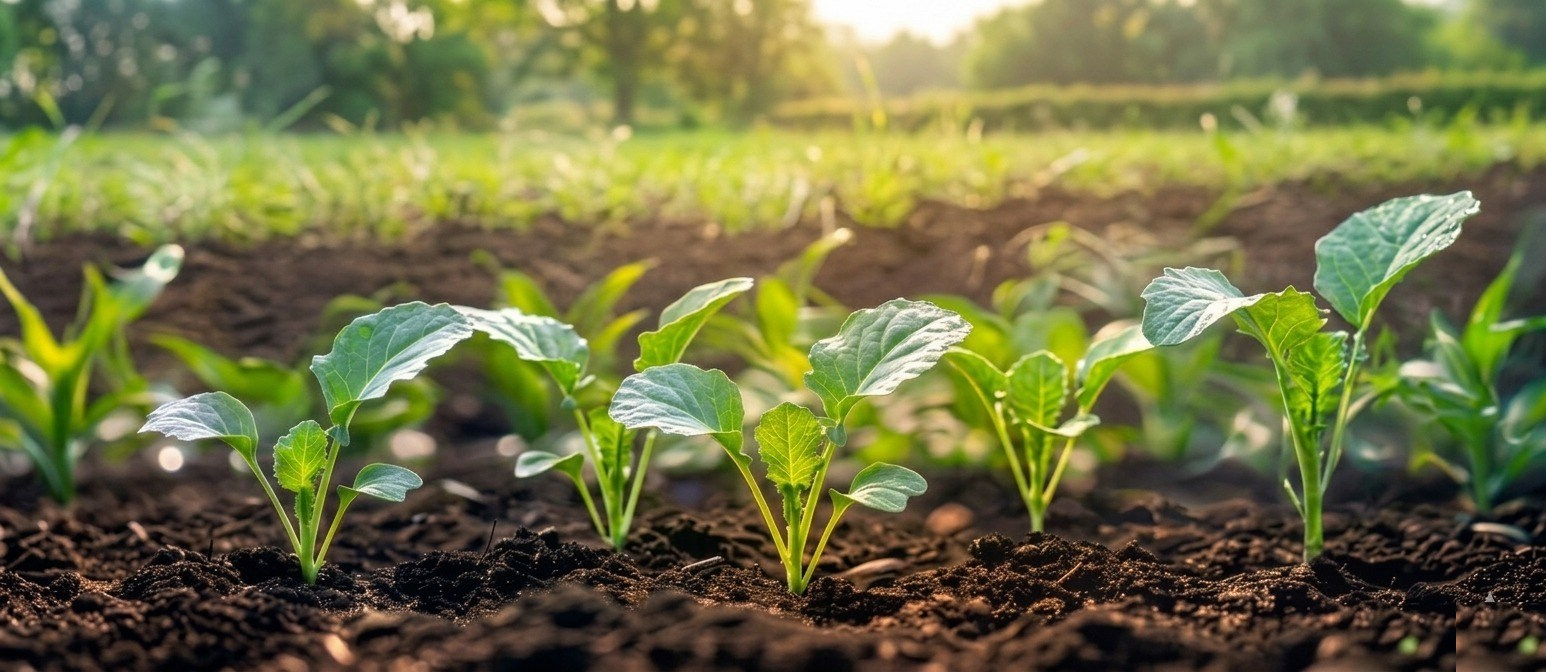
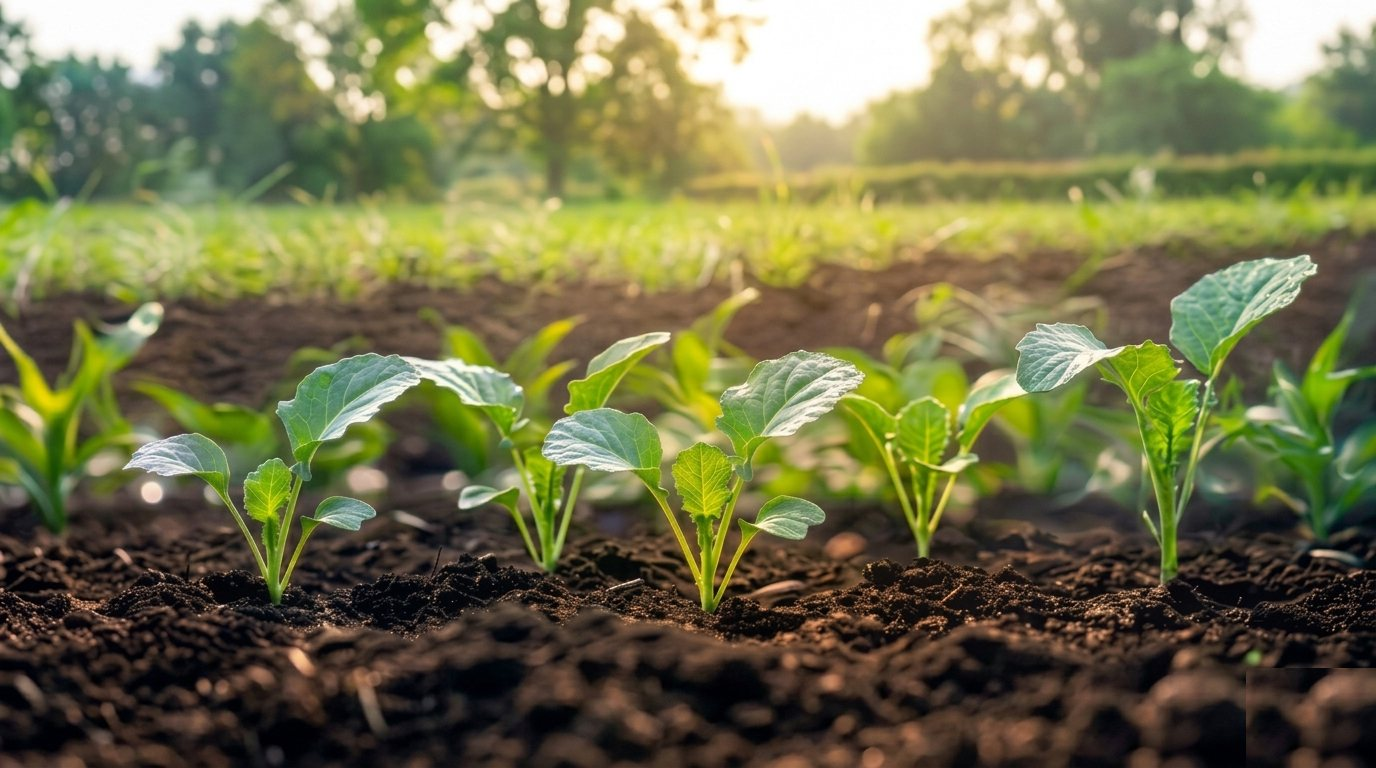
feat(hero): new 1376x768 desktop + 768x1376 mobile hero artwork
- Replace brocoli-hero.jpeg with the new 16:9 desktop artwork
  (sprouts in dark soil at golden hour) — 1376x768, 170 KB
- Add brocoli-hero-mobile.jpeg portrait crop for narrow viewports
  — 768x1376, 166 KB
- Both have the Gemini AI watermark removed via adjacent-soil patch
- Switch background from CSS background-image (single asset, single
  crop) to a <picture> element with two <source>s. The browser now
  downloads only the asset that matches the viewport:
  - <=1024px wide -> brocoli-hero-mobile.jpeg (portrait composition)
  -  >1024px wide -> brocoli-hero.jpeg (wide composition)
- Move the cinematic amber radial + dark vertical gradient into a new
  .bg-overlay layer so the gradient sits on top of the image instead
  of being a fourth background-image layer
- Update .hero-inmersivo aspect-ratio from 1546/672 to 1376/768 to
  match the new asset's native dimensions on desktop wide

diff --git a/components/sections/HeroInmersivo.tsx b/components/sections/HeroInmersivo.tsx
@@ -610,13 +610,16 @@ export default function HeroInmersivo(props: HeroInmersivoProps) {
 
   return (
     <section ref={heroRef} className={`hero-inmersivo ${cfg.className ?? ""}`}>
-      <div
-        className="bg"
-        ref={bgRef}
-        style={{
-          backgroundImage: `radial-gradient(ellipse 35% 30% at 88% 28%, rgba(255,170,80,.10) 0%, rgba(255,130,55,.04) 40%, transparent 75%), linear-gradient(180deg, rgba(2,12,7,1) 0%, rgba(3,16,9,1) 10%, rgba(5,20,11,.98) 16%, rgba(8,26,14,.88) 22%, rgba(10,30,16,.65) 30%, rgba(10,30,16,.42) 40%, rgba(10,30,16,.25) 50%, rgba(10,30,16,.10) 60%, transparent 68%), url(${cfg.backgroundImage})`,
-        }}
-      />
+      <div className="bg" ref={bgRef}>
+        {/* Responsive hero artwork: mobile-portrait crop on narrow viewports,
+            wide desktop crop on tablet+. <picture> lets the browser pick the
+            right asset so each device only downloads what it needs. */}
+        <picture>
+          <source media="(max-width: 1024px)" srcSet="/hero/brocoli-hero-mobile.jpeg" />
+          <img src={cfg.backgroundImage} alt="" aria-hidden />
+        </picture>
+      </div>
+      <div className="bg-overlay" aria-hidden />
       <div className="tint" />
       <div className="shafts" />
 
@@ -697,28 +700,37 @@ export default function HeroInmersivo(props: HeroInmersivoProps) {
           color:#eaf5ee;-webkit-font-smoothing:antialiased;
         }
         .bg{
-          position:absolute;inset:0;
-          background-size:cover, cover, cover;
-          background-position:center, center, center 55%;
-          background-repeat:no-repeat;background-color:#06120e;
+          position:absolute;inset:0;background-color:#06120e;
           transition:transform .3s cubic-bezier(.2,.7,.3,1);will-change:transform;
           filter:saturate(1.12) contrast(1.10) brightness(1.0);
         }
-        /* Desktop wide (>=1280px): give the hero an aspect ratio that matches
-           the source image (1546x672 ~= 2.3:1). The container height is then
-           derived from its width, so cover no longer needs to crop and the
-           image fills the hero in its native proportions. Capped at 100vh so
-           it never exceeds the viewport on very tall narrow screens. */
+        .bg picture, .bg img{
+          display:block;width:100%;height:100%;
+        }
+        .bg img{
+          object-fit:cover;object-position:center 55%;
+        }
+        /* Soft cinematic overlay layered on top of the responsive hero image:
+           amber sunburst top-right + dark vertical fade at the top so the nav
+           and copy stay legible. */
+        .bg-overlay{
+          position:absolute;inset:0;pointer-events:none;
+          background:
+            radial-gradient(ellipse 35% 30% at 88% 28%, rgba(255,170,80,.10) 0%, rgba(255,130,55,.04) 40%, transparent 75%),
+            linear-gradient(180deg, rgba(2,12,7,1) 0%, rgba(3,16,9,1) 10%, rgba(5,20,11,.98) 16%, rgba(8,26,14,.88) 22%, rgba(10,30,16,.65) 30%, rgba(10,30,16,.42) 40%, rgba(10,30,16,.25) 50%, rgba(10,30,16,.10) 60%, transparent 68%);
+        }
+        /* Desktop wide (>=1280px): hero takes its aspect ratio from the new
+           1376x768 image (16:9). Capped at 100vh so it never overflows the
+           viewport on tall narrow screens. */
         @media (min-width: 1280px){
           .hero-inmersivo{
             height:auto;
             min-height:0;
             max-height:100vh;
-            aspect-ratio: 1546 / 672;
+            aspect-ratio: 1376 / 768;
           }
-          .bg{
-            background-size:cover, cover, cover;
-            background-position:center, center, center;
+          .bg img{
+            object-position:center;
           }
         }
         .tint{